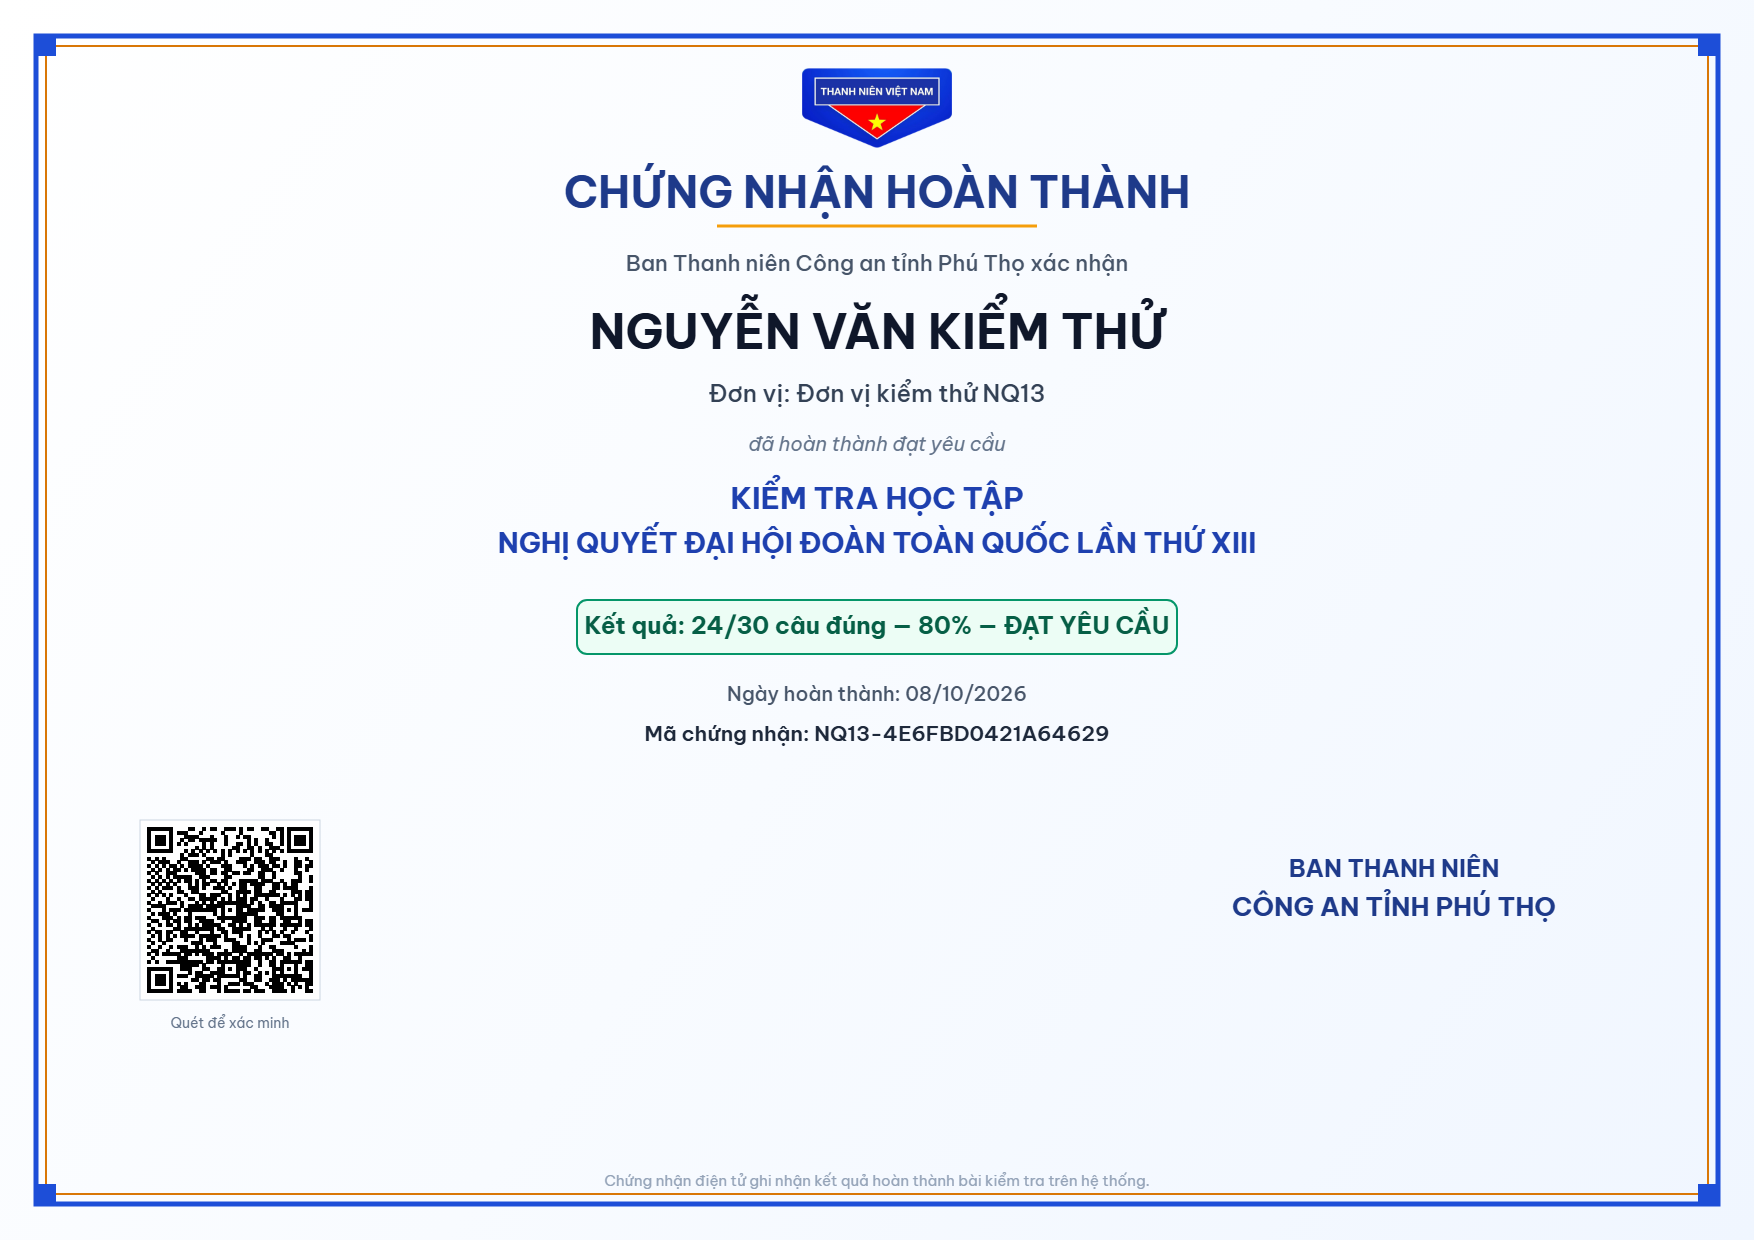
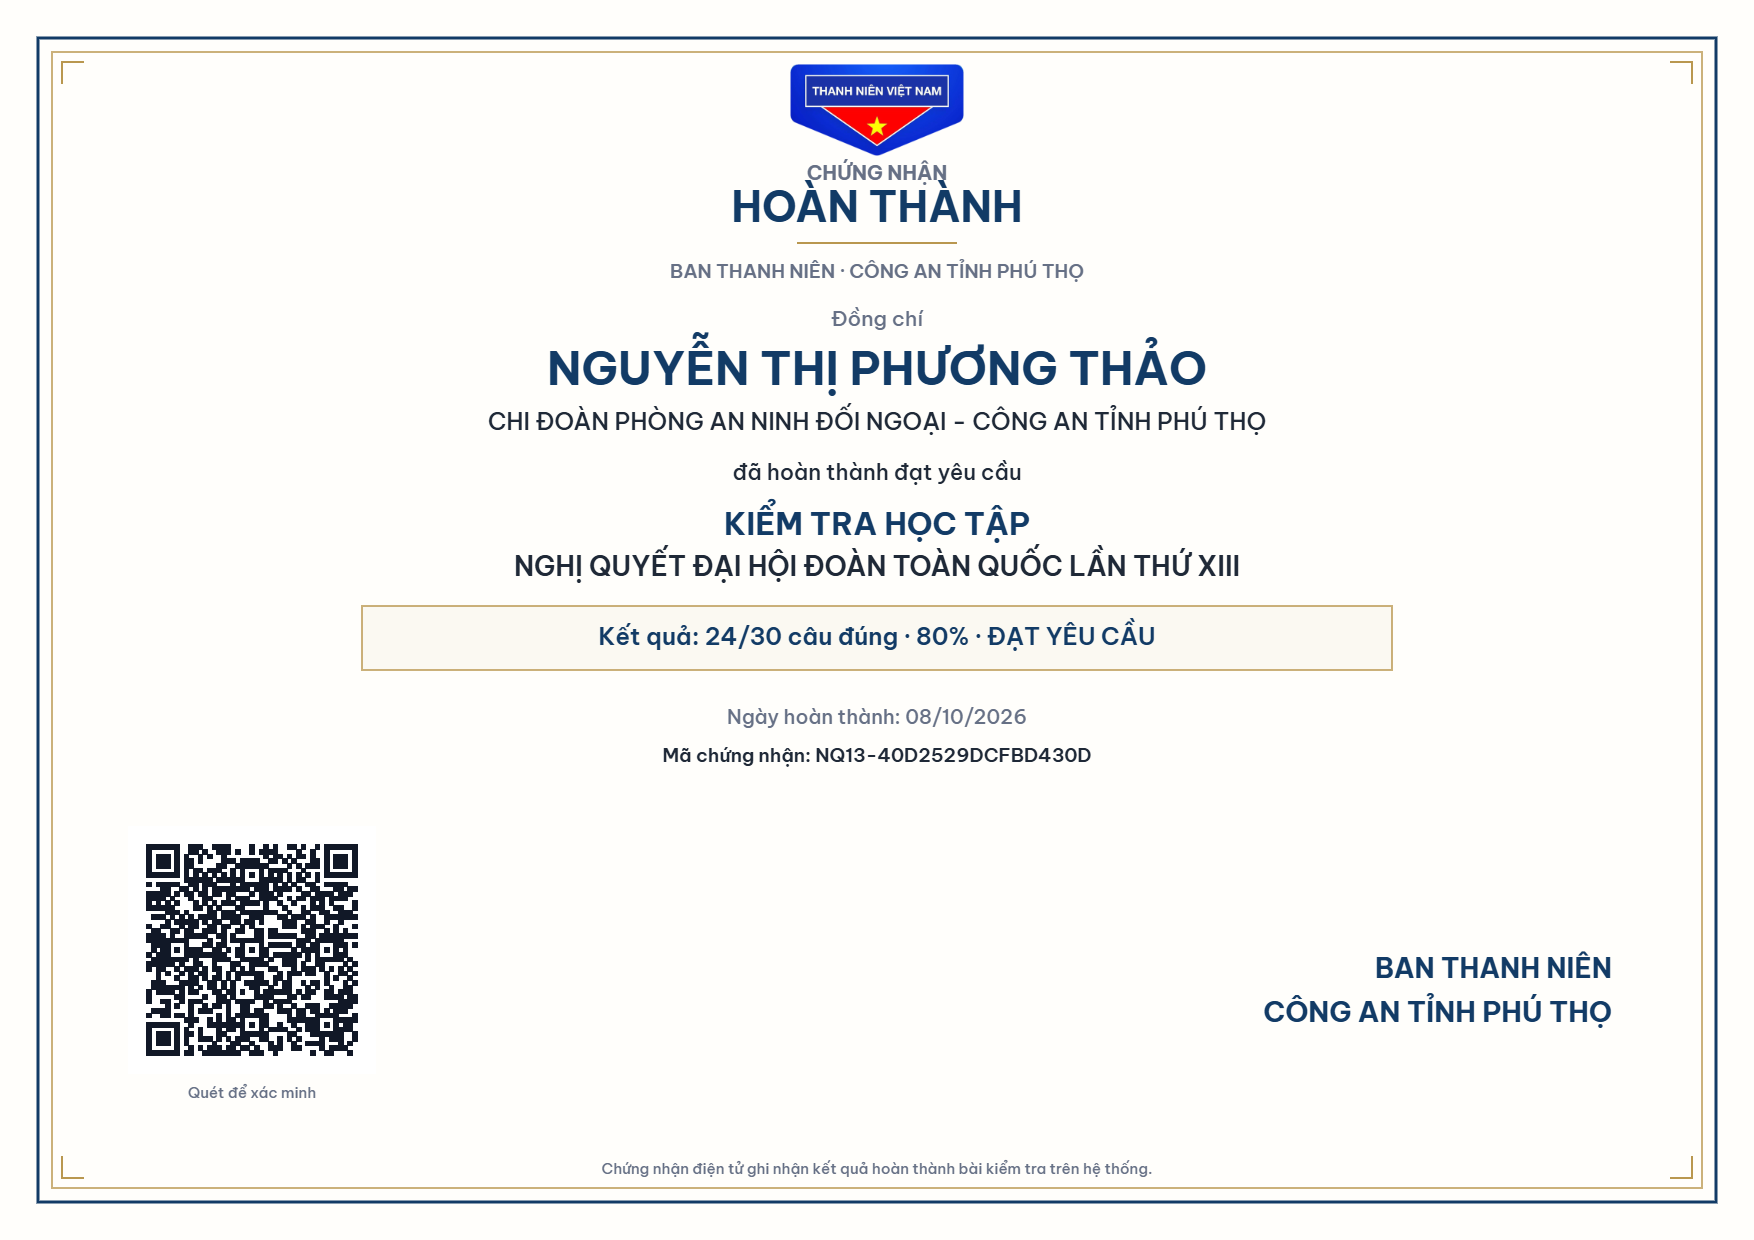
fix(quiz): improve certificate print and record browser evidence

diff --git a/src/index.css b/src/index.css
@@ -1675,6 +1675,10 @@
     background: #FFFEFB !important;
   }
   body * { visibility: hidden !important; }
+  .nq-cert-modal-backdrop,
+  .nq-cert-modal-content,
+  .nq-certificate-wrapper,
+  .nq-certificate-scrollable,
   .nq-certificate,
   .nq-certificate * { visibility: visible !important; }
   .nq-certificate {

diff --git a/docs/quiz-300/NQ13_CERTIFICATE_ACCEPTANCE.md b/docs/quiz-300/NQ13_CERTIFICATE_ACCEPTANCE.md
@@ -107,37 +107,75 @@ dành cho toàn thể đoàn viên, thanh niên và quần chúng nhân dân thu
 
 `NQ13_CERTIFICATE_ACCEPTANCE_BLOCKED`
 
-The database runtime and a real rehearsal certificate passed. End-to-end browser acceptance is incomplete because the browser control bridge timed out after the submit confirmation dialog opened. The browser result screen, certificate viewer, QR, PNG download, print/PDF, and desktop flow were not verified.
+Browser acceptance on `bddb3c607fe98db34f2cc7412450cf3c579f1d9f` verified the mobile guest PASS flow, certificate viewer, real PNG download, independent QR decode, public VALID verification, desktop layout, and invalid-code handling. The required 23/30 browser FAIL result was not reached because the current browser bridge dismissed the native submit confirmation. The Preview print-to-PDF output was a blank A4 landscape page. A local print-CSS fixture now renders content, but it does not replace a retest on the exact final Preview.
 
-### PR and CI
+### PR and source heads
 
-- PR: [#67](https://github.com/vi-phuong-158/so-tay-doan-vien-so/pull/67), open, mergeable, not merged.
-- Branch: `codex/nq13-learning-certificate`; base: `master` at `a7f0aa2eb713e0cb619924fb0e43da1740de3459`.
-- Browser-tested UI head: `c8d5791121a5bb9a46c15595ec78495d02e60d2b`.
-- Runtime-assertion and evidence commit: `02722602e35bcc86aaa2a12a4a2769602c81fa19`. GitHub Actions run `37662296932` passed `build`, `member-api-test`, and `test-db`; Vercel and Vercel Preview Comments passed for this exact head.
-- Exact-head Vercel deployment: `https://so-tay-doan-vien-aqy21kfgp-vi-phuong-158s-projects.vercel.app` (deployment `dpl_HmEQ2ahCqcwdSisM3CYYAoYPqqEy`, state `READY`, source SHA `0272260`).
-- The new commit changes only the runtime SQL check and documentation. Its Preview was deployed successfully, but the browser flow was not retried on that deployment because the earlier browser control bridge timed out at submit.
-- Local root checks: `npm test` 241/241; `npm run lint` 0 errors and 3 existing Fast Refresh warnings; `npm run build` succeeded with the existing >500 kB bundle warning.
+- Existing PR: [#67](https://github.com/vi-phuong-158/so-tay-doan-vien-so/pull/67), open and not merged. No duplicate PR created.
+- Branch: `codex/nq13-learning-certificate`; starting head: `4cd7cac8ee67a8cce0a23ca36ae996fe3f7f02f4`.
+- Browser-tested code head: `bddb3c607fe98db34f2cc7412450cf3c579f1d9f`.
+- The evidence/documentation update and print-visibility CSS adjustment are recorded by the commit that updates this file; their exact head is shown by PR #67 and the final handoff report.
+- Last fully verified CI before this evidence update: GitHub Actions run `37711174407` passed build, database, and member API jobs on `bddb3c6`.
+- Last fully verified Vercel Preview before this evidence update: deployment `dpl_3rR3BeSXPBN9BFB6YVkjxidEnm8R`, state `READY`, source SHA `bddb3c607fe98db34f2cc7412450cf3c579f1d9f`. Branch alias: `https://so-tay-doan-vien-so-git-codex-nq-500c6d-vi-phuong-158s-projects.vercel.app`.
+- The new evidence commit must have CI and Vercel status checked again; the browser results below are from `bddb3c6`, so exact-final-head acceptance remains blocked until retested.
 
-### Database
+### Local validation
 
-- The Preview bundle and workspace `.env` both target Supabase project `znexculhbdjiflkczpyu`, verified as `so-tay-doan-vien-rehearsal` (`ACTIVE_HEALTHY`). Production was not accessed.
-- Applied the PR migration only to that rehearsal project. Supabase recorded it as `20261007172523 / nq13_learning_certificate`.
-- Ran `scripts/nq-runtime-check.sql` on rehearsal; result: `NQ_RUNTIME_ASSERTIONS_PASS`. The runtime script now exercises the exact `23/30 → 76.67% FAIL` and `24/30 → 80% PASS` boundaries, no certificate on FAIL, one idempotent certificate on PASS, participant immutability, public verification privacy, guest isolation, client write restrictions, and certificate survival after guest cleanup. The script transaction rolled back its fixtures.
-- A separate browser-created synthetic guest attempt persisted all 30 selections. Internal rehearsal fixture inspection showed 24 correct and 6 wrong. The attempt was submitted through `public.nq_attempt` under the guest’s `authenticated` role after the browser bridge failed. The RPC returned 24/30, 80%, PASS, and issued `NQ13-4E6FBD0421A64629` for `Nguyễn Văn Kiểm Thử` / `Đơn vị kiểm thử NQ13`.
-- Anonymous `verify_nq_certificate` returned VALID, the correct participant, score, issue time, and quiz title without auth IDs, email, or answer data. The synthetic attempt and certificate remain in rehearsal for inspection.
-- The existing pgTAP file declares `plan(16)`; the earlier claim of 22 assertions was incorrect. Exact boundary and runtime coverage are in `scripts/nq-runtime-check.sql`.
+- `npm test`: 251/251 PASS, 0 skipped.
+- `npm run lint`: 0 errors; 3 pre-existing Fast Refresh warnings.
+- `npm run build`: PASS; existing warning for the 593.33 kB main JavaScript chunk.
+- `git diff --check`: PASS.
+- A local Playwright print fixture using the repository CSS rendered certificate content at A4 landscape dimensions. This is CSS-level evidence only; the exact Preview print test remains blocked by the blank PDF output recorded below.
 
-### Browser acceptance
+### Database runtime
 
-- Mobile viewport: `390 × 844` on the hosted `c8d5791` Preview. The home page showed the required campaign text and both CTAs. The participant form opened; empty submission was blocked. Synthetic participant data was accepted, and the quiz displayed 30 questions with a 20-minute timer. The frontend files are unchanged on `0272260`, but that exact-head Preview did not receive an interactive browser pass.
-- All 30 answer controls were selected in the browser. The database snapshot confirmed 24 correct and 6 wrong. Clicking `Nộp bài` opened the application’s confirmation dialog, then the browser bridge timed out. A later read confirmed the attempt was still unsubmitted; the database RPC submission above was used to finish backend runtime verification.
-- Because the browser bridge stopped, no browser PASS result screen, certificate viewer, direct verification route, invalid-code route, PNG download, print/PDF, desktop viewport, lookup regression, authenticated regression, or mobile certificate/verification layout was verified.
-- QR unit tests passed, but no rendered certificate QR or independent scan was tested. Do not claim `QR SCAN PASS` or `QR_RENDER_AND_PAYLOAD_PASS` from this session.
+- Rehearsal only: Supabase project `znexculhbdjiflkczpyu` (`so-tay-doan-vien-rehearsal`, `ACTIVE_HEALTHY`). Production was not used.
+- Applied the participant-required migration to rehearsal; recorded migration version `20261008003637 / nq13_certificate_submit_requires_participant`.
+- pgTAP: `supabase/tests/nq13_certificate_assessment.sql`, 18/18 assertions PASS.
+- Runtime SQL: `scripts/nq-runtime-check.sql` returned `NQ_RUNTIME_ASSERTIONS_PASS`. It covers participant-required submission, 23/30 FAIL, 24/30 PASS, no certificate on FAIL or without participant, unique/idempotent issuance, public verification privacy, guest isolation, and retention after guest cleanup.
+- Browser-created synthetic PASS certificate and a synthetic 23/30 attempt remain in rehearsal. The latter was not submitted from the browser because the confirmation dialog was dismissed by the current bridge.
 
-### Session changes and limitations
+### Browser acceptance on the branch Preview
 
-- Changed `scripts/nq-runtime-check.sql` to cover the missing exact 23/30 boundary and strengthen runtime assertions.
-- Added `docs/quiz-300/evidence/nq13-certificate-sample.png`, a 1754 × 1240 PNG render from the existing certificate canvas exporter using rehearsal certificate `NQ13-4E6FBD0421A64629`. Its QR points to the PR Preview verification URL used for this render. This render is a review sample; an actual browser download and independent QR scan remain unverified.
-- No feature implementation changes, production migration, merge, or master push were made.
-- Final verdict remains `NQ13_CERTIFICATE_ACCEPTANCE_BLOCKED` until the browser gates above can be run on the exact final Preview head.
+- Viewports exercised: mobile `390 × 844`; desktop `1440 × 900`.
+- Home showed the NQ13 campaign banner and both quiz/lookup CTAs.
+- Participant gate: empty submission was blocked; privacy notice and consent copy named public display of name, organization, and completion result. Synthetic long name and long organization were accepted.
+- PASS flow: browser submitted exactly 24/30 and displayed `80%`, PASS, participant snapshot, issue date, and real certificate code `NQ13-40D2529DCFBD430D`.
+- Certificate viewer: mobile reflow and desktop layout were inspected; long name/organization stayed within the certificate bounds, QR remained visible, and footer did not overlap.
+- Invalid code route showed `CHỨNG NHẬN KHÔNG HỢP LỆ HOẶC KHÔNG TỒN TẠI`.
+- FAIL flow: 30 answers for a synthetic 23/30 attempt were selected, but `window.confirm('Nộp bài và xem kết quả?')` was auto-dismissed by the browser bridge. No browser result screen was observed. SQL runtime proves the backend 23/30 boundary, but the browser FAIL gate remains open.
+- Quick lookup regression, authenticated-user flow, and browser 20-minute auto-submit were not completed. Legacy expiry and no-certificate behavior are covered by rehearsal SQL assertions.
+
+### QR independent decode
+
+- Browser PNG verification URL expected:
+  `https://so-tay-doan-vien-so-git-codex-nq-500c6d-vi-phuong-158s-projects.vercel.app/xac-minh-chung-nhan/NQ13-40D2529DCFBD430D`
+- Decoded from the actual downloaded PNG using OpenCV `QRCodeDetector`:
+  `https://so-tay-doan-vien-so-git-codex-nq-500c6d-vi-phuong-158s-projects.vercel.app/xac-minh-chung-nhan/NQ13-40D2529DCFBD430D`
+- Exact payload comparison: PASS. The public page showed `CHỨNG NHẬN HỢP LỆ`, the matching synthetic participant, 24/30 and 80%, and no email or phone number.
+
+### PNG and print acceptance
+
+- Actual browser download event: PASS. File: `Chung-nhan-NQ13-NGUYEN-THI-PHUONG-THAO.png`, 195,984 bytes, PNG 1754 × 1240.
+- The downloaded file is now `docs/quiz-300/evidence/nq13-certificate-sample.png`; it was not manually edited. QR decode is independently verified above.
+- Preview print attempt produced one A4 landscape PDF page with no text and a white page: FAIL. A local print fixture with the current visibility selectors rendered certificate content at A4 dimensions, but Preview PDF/print still needs browser verification on the final head.
+
+### Visual evidence
+
+All samples use synthetic test data and come from the browser or the real Canvas PNG exporter:
+
+- `docs/quiz-300/evidence/nq13-certificate-sample.png`
+- `docs/quiz-300/evidence/nq13-home-mobile-390.png`
+- `docs/quiz-300/evidence/nq13-participant-gate-mobile-390.png`
+- `docs/quiz-300/evidence/nq13-pass-result-mobile-390.png`
+- `docs/quiz-300/evidence/nq13-certificate-viewer-mobile-390.png`
+- `docs/quiz-300/evidence/nq13-certificate-viewer-desktop-1440.png`
+- `docs/quiz-300/evidence/nq13-public-verification-valid-mobile-390.png`
+
+### Remaining risks
+
+- The 23/30 browser result screen still needs to be observed.
+- Preview print/PDF must be retested because the observed PDF was blank.
+- Final evidence/docs commit needs exact-head CI and Vercel READY checks; browser evidence currently references the previous code head `bddb3c6`.
+- Authenticated member, quick lookup, and 20-minute browser auto-submit regressions are not covered by this run.
+- Existing `npm audit` advisories were not introduced by the certificate dependency update: brace-expansion, dompurify 3.4.13, js-yaml 4.3.1, and source-map-js 1.2.1.

diff --git a/docs/brain/06-ai-working-log.md b/docs/brain/06-ai-working-log.md
@@ -1,5 +1,12 @@
 # 06 — AI Working Log
 
+## [2026-10-08] NQ13 browser evidence, print follow-up, and blocked acceptance
+- **Agent:** Codex
+- **Thay đổi:** Thay certificate sample bằng PNG thật tải từ browser, thêm screenshot mobile/desktop/public verification synthetic; mở rộng print visibility selectors cho modal/certificate chain; cập nhật acceptance report và trạng thái current task.
+- **File đã sửa:** `src/index.css`, `docs/quiz-300/NQ13_CERTIFICATE_ACCEPTANCE.md`, `docs/quiz-300/evidence/nq13-*`, `docs/brain/04-current-tasks.md`, `docs/brain/06-ai-working-log.md`.
+- **Lý do:** Ghi đúng bằng chứng sau redesign và xử lý hiện tượng PDF Preview trắng, không tuyên bố PASS khi còn thiếu browser FAIL và print acceptance.
+- **Kiểm tra:** `npm test` 251/251 PASS (0 skipped), lint 0 lỗi/3 warning Fast Refresh có sẵn, build PASS (warning chunk lớn có sẵn), `git diff --check` PASS. Trên Preview code head `bddb3c6`: guest PASS 24/30 (80%), mã `NQ13-40D2529DCFBD430D`, PNG download 1754 × 1240, QR independent decode exact match, public verification VALID, invalid code rõ ràng; mobile 390 × 844 và desktop 1440 × 900 đã xem. QR expected/decoded: `https://so-tay-doan-vien-so-git-codex-nq-500c6d-vi-phuong-158s-projects.vercel.app/xac-minh-chung-nhan/NQ13-40D2529DCFBD430D`. Browser 23/30 chưa submit vì bridge tự đóng `window.confirm`; Preview PDF trắng. Local print fixture hiện render được trên A4, chưa thay thế retest Preview. Verdict `NQ13_CERTIFICATE_ACCEPTANCE_BLOCKED`.
+
 ## [2026-10-08] NQ13 certificate sample render
 - **Agent:** Codex
 - **Thay đổi:** Xuất ảnh mẫu chứng nhận 1754 × 1240 từ canvas exporter hiện có bằng dữ liệu chứng nhận synthetic trong rehearsal; QR dùng URL xác minh của Preview được kiểm tra lúc render (head `a513767`). Ghi rõ ảnh là bản render để duyệt, không thay thế kiểm thử tải PNG hoặc quét QR độc lập.

diff --git a/docs/brain/04-current-tasks.md b/docs/brain/04-current-tasks.md
@@ -17,7 +17,7 @@
 - Khóa ngoại `attempt_id ON DELETE SET NULL` bảo toàn chứng nhận ngay cả khi tài khoản guest 30 ngày bị cron xóa.
 - Route xác minh: `/xac-minh-chung-nhan/:code` qua RPC `verify_nq_certificate` bảo mật không rò rỉ dữ liệu nhạy cảm.
 - Server enforcement: migration `20261008120000_nq13_certificate_submit_requires_participant.sql` chặn submit trước hạn nếu thiếu participant snapshot; legacy expiry thiếu snapshot không phát certificate.
-- Kiểm tra local/rehearsal hiện tại: `npm test` 251/251, lint 0 lỗi (3 Fast Refresh warnings), build PASS (cảnh báo chunk lớn), pgTAP 18/18, rehearsal runtime `NQ_RUNTIME_ASSERTIONS_PASS`. Chưa có kết quả acceptance trên exact final Preview head của phần sửa này; browser/mobile/desktop/download/print, CI và Vercel vẫn là gate bắt buộc. Verdict hiện tại: `NQ13_CERTIFICATE_ACCEPTANCE_BLOCKED`. Evidence: `docs/quiz-300/NQ13_CERTIFICATE_ACCEPTANCE.md`.
+- Kiểm tra local/rehearsal: `npm test` 251/251, lint 0 lỗi (3 Fast Refresh warnings), build PASS (cảnh báo chunk lớn), pgTAP 18/18, runtime `NQ_RUNTIME_ASSERTIONS_PASS`. Preview `bddb3c6` đã xác nhận mobile/desktop, PASS 24/30, PNG browser download, QR decode độc lập, public VALID và invalid-code. Browser FAIL chưa hiện kết quả vì confirmation dialog bị bridge tự đóng; Preview print PDF trả về trang trắng. Verdict vẫn `NQ13_CERTIFICATE_ACCEPTANCE_BLOCKED`; cần exact-final-head CI/Vercel/browser retest và Preview print retest. Evidence: `docs/quiz-300/NQ13_CERTIFICATE_ACCEPTANCE.md`.
 
 ### Document mobile reader (2026-10-07)
 - Owner yêu cầu sửa chi tiết văn bản mobile, có chỗ mở/đọc bản gốc và điền metadata từ tài liệu.
